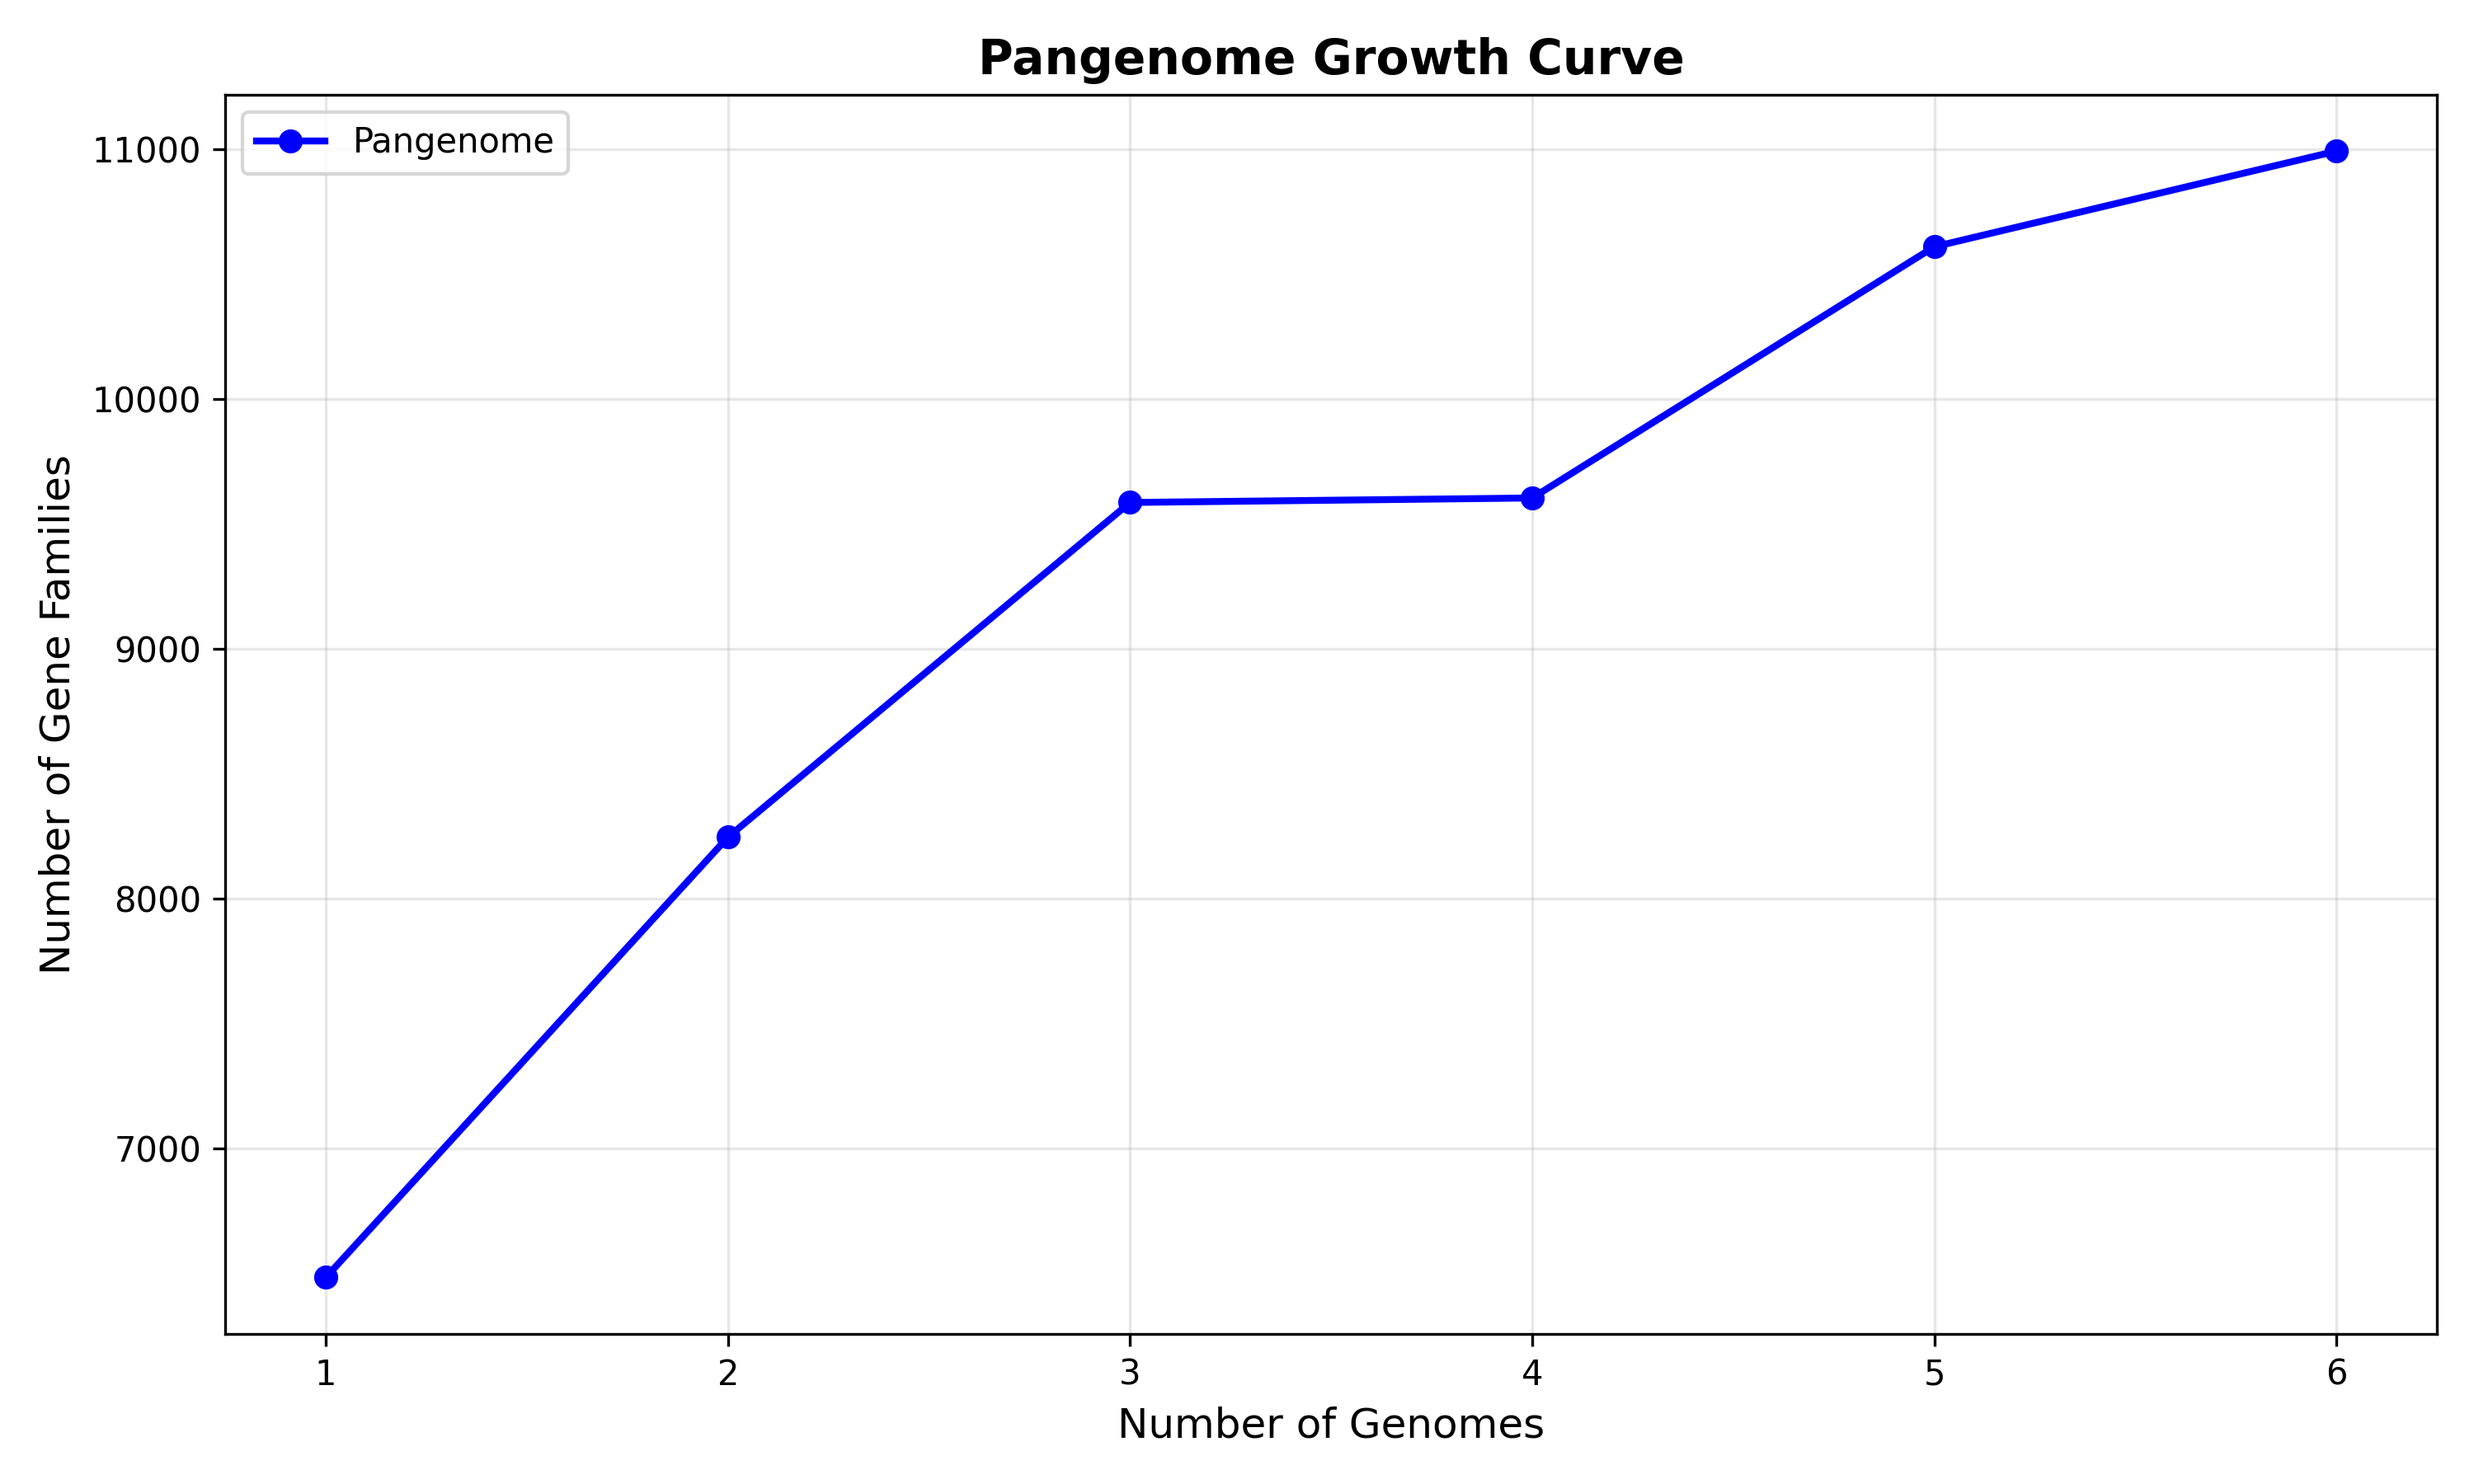
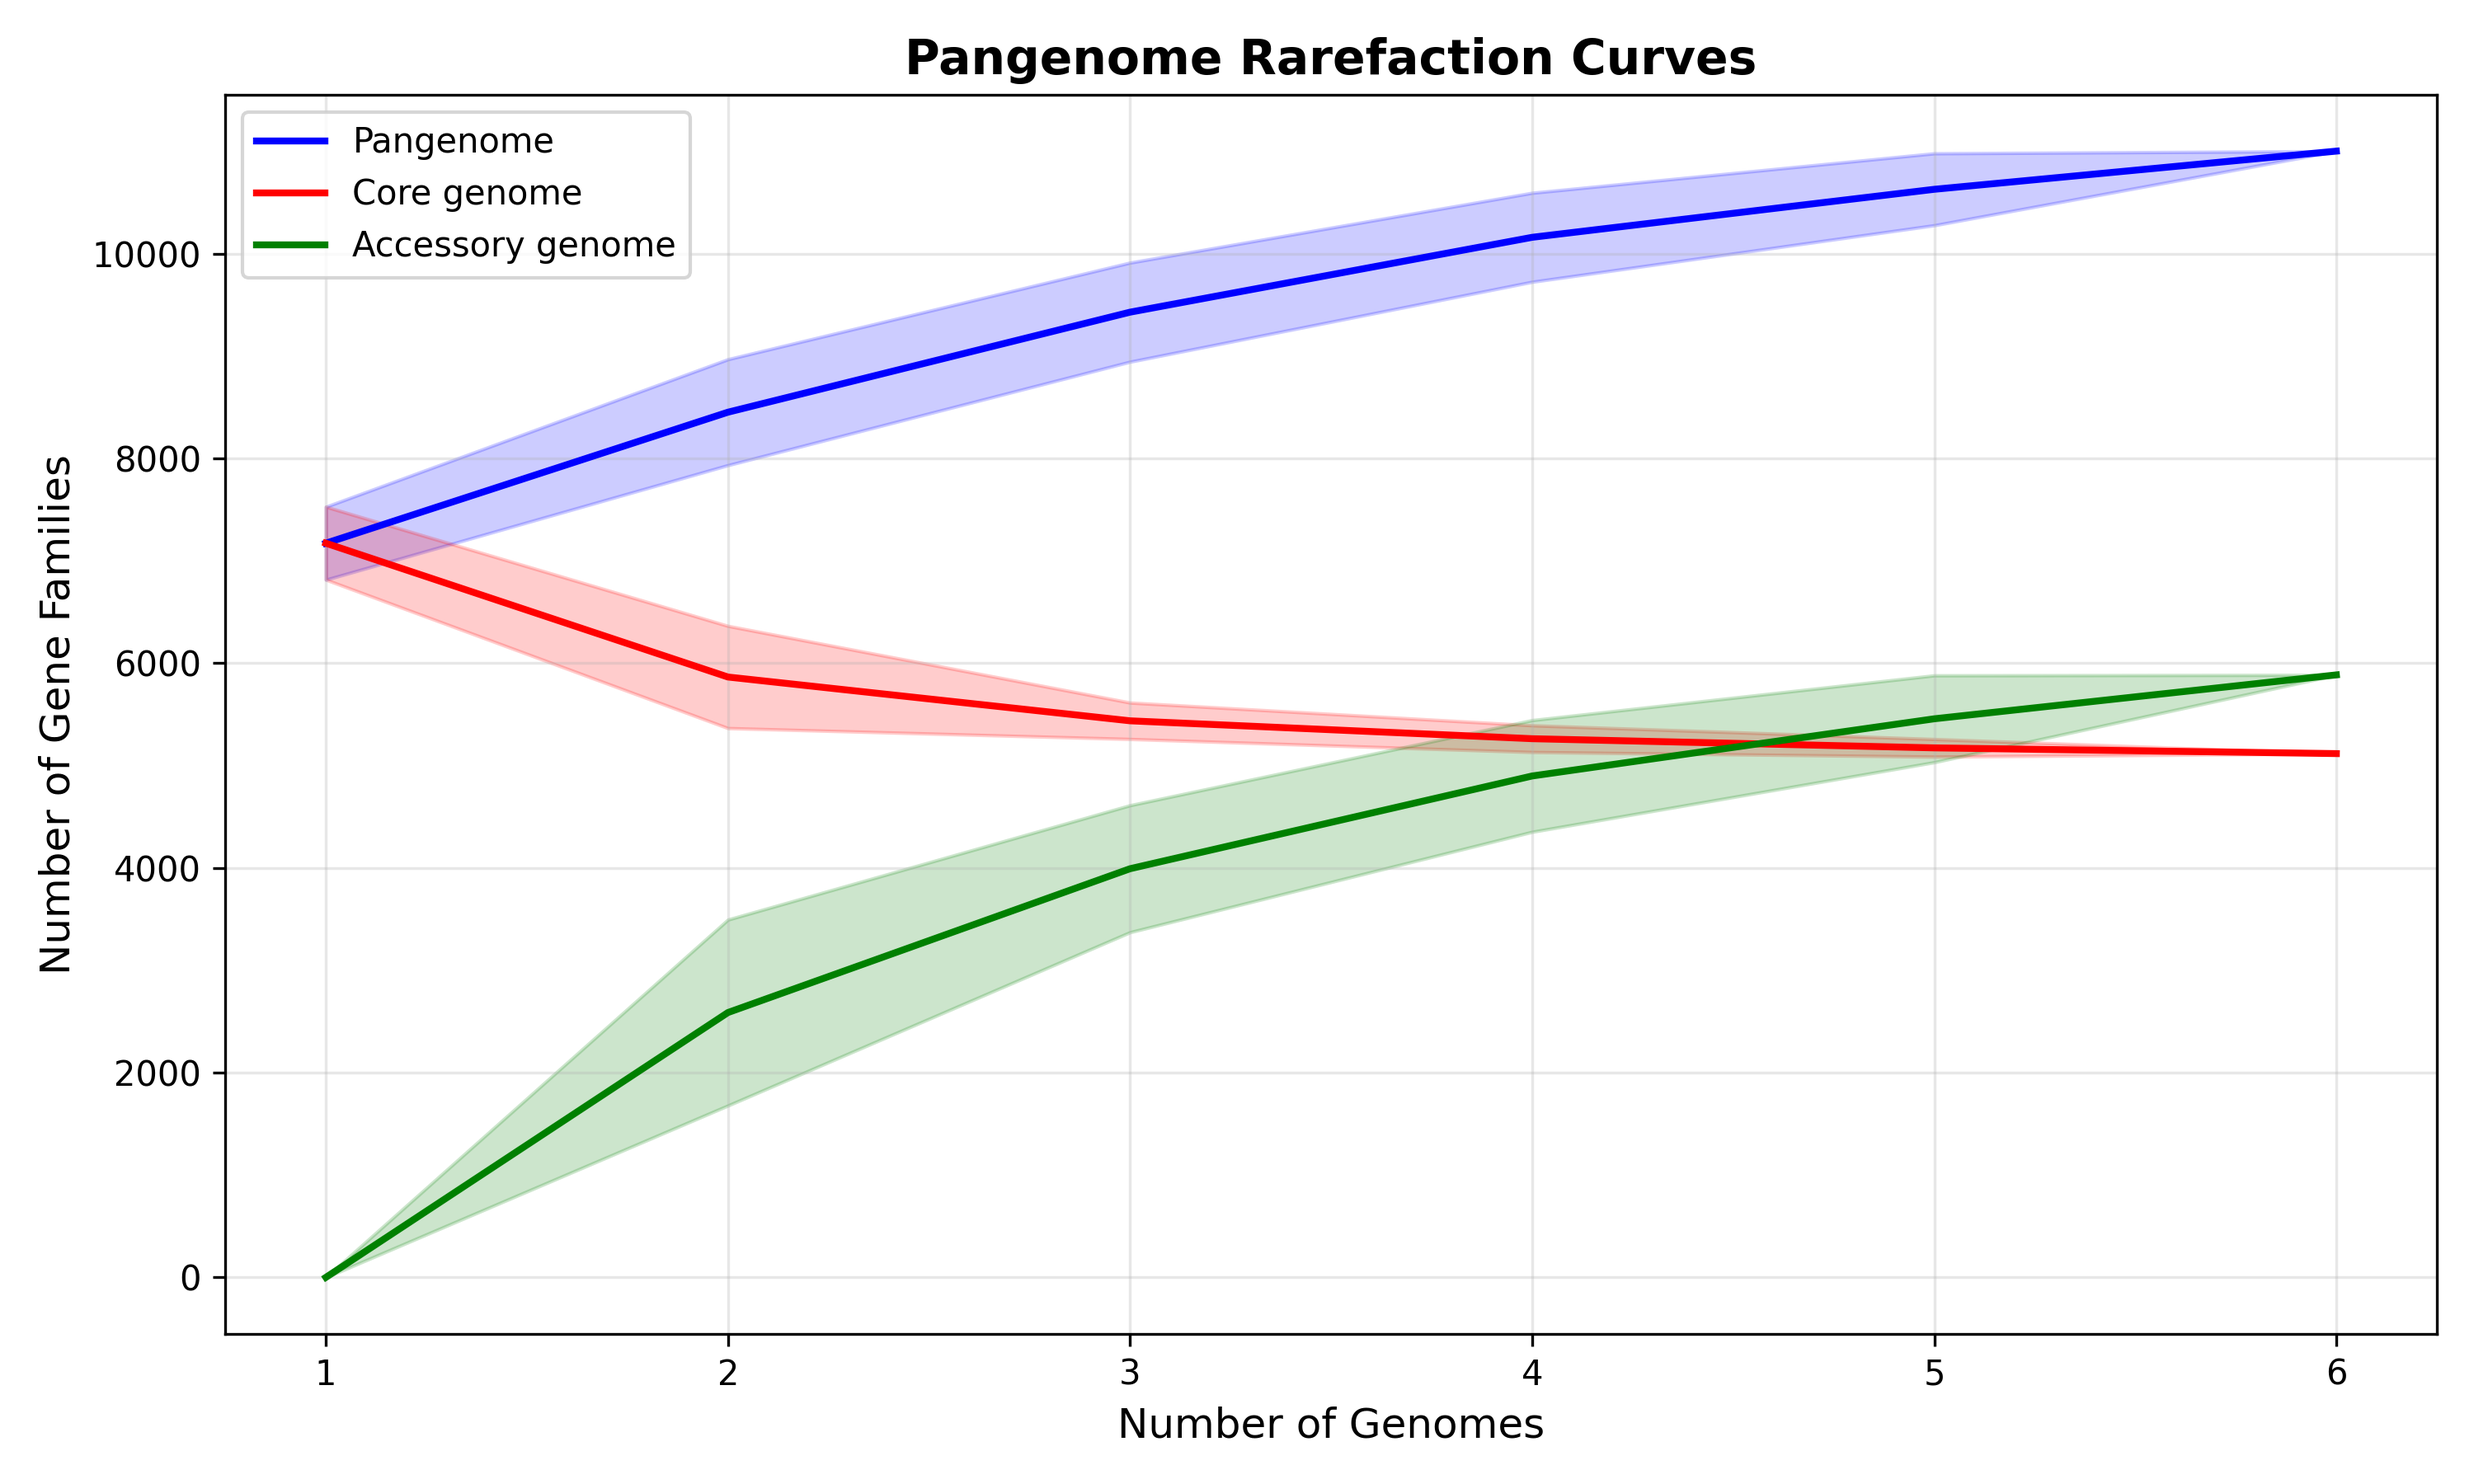
Add resampling uncertainty bands to rarefaction curves
Enhanced rarefaction curve visualization to show uncertainty from
100-iteration resampling analysis:

1. Modified _create_rarefaction_plot() to add shaded ±1 std bands
   - Blue band: Pangenome growth uncertainty
   - Red band: Core genome decay uncertainty
   - Green band: Accessory genome uncertainty
   - Semi-transparent (alpha=0.2) for clarity

2. Regenerated rarefaction plot with improved visualization
   - Shows both pangenome growth AND core genome decay
   - Demonstrates proper rarefaction methodology
   - More informative and professional appearance

3. Updated README figure caption to explain:
   - 100-iteration resampling methodology
   - Meaning of each colored line and band
   - Statistical interpretation of shaded regions

The uncertainty bands provide valuable insight into the reliability
of pangenome size estimates at each genome count.

diff --git a/pangenomeplus/pangenome_analysis.py b/pangenomeplus/pangenome_analysis.py
@@ -40,26 +40,50 @@ def _create_rarefaction_plot(
 
     fig, ax = plt.subplots(figsize=VizParams.DEFAULT_FIGSIZE)
 
-    # Plot pangenome curve
+    # Plot pangenome curve with uncertainty band
     if "pangenome" in rarefaction_data and rarefaction_data["pangenome"]:
         data = rarefaction_data["pangenome"]
         x = [row[0] for row in data]  # genome_count
         y = [row[1] for row in data]  # mean
+        std = [row[2] for row in data]  # std
         ax.plot(x, y, "b-", linewidth=2, label="Pangenome")
+        ax.fill_between(
+            x,
+            [m - s for m, s in zip(y, std)],
+            [m + s for m, s in zip(y, std)],
+            alpha=0.2,
+            color="blue",
+        )
 
-    # Plot core genome curve
+    # Plot core genome curve with uncertainty band
     if "core" in rarefaction_data and rarefaction_data["core"]:
         data = rarefaction_data["core"]
         x = [row[0] for row in data]  # genome_count
         y = [row[1] for row in data]  # mean
+        std = [row[2] for row in data]  # std
         ax.plot(x, y, "r-", linewidth=2, label="Core genome")
+        ax.fill_between(
+            x,
+            [m - s for m, s in zip(y, std)],
+            [m + s for m, s in zip(y, std)],
+            alpha=0.2,
+            color="red",
+        )
 
-    # Plot accessory genome curve
+    # Plot accessory genome curve with uncertainty band
     if "accessory" in rarefaction_data and rarefaction_data["accessory"]:
         data = rarefaction_data["accessory"]
         x = [row[0] for row in data]  # genome_count
         y = [row[1] for row in data]  # mean
+        std = [row[2] for row in data]  # std
         ax.plot(x, y, "g-", linewidth=2, label="Accessory genome")
+        ax.fill_between(
+            x,
+            [m - s for m, s in zip(y, std)],
+            [m + s for m, s in zip(y, std)],
+            alpha=0.2,
+            color="green",
+        )
 
     ax.set_xlabel("Number of Genomes", fontsize=12)
     ax.set_ylabel("Number of Gene Families", fontsize=12)

diff --git a/README.md b/README.md
@@ -542,7 +542,7 @@ Analysis of 6 *E. coli* genomes produced:
 **Pangenome type**: OPEN (growth rate: 780 families/genome)
 
 ![Rarefaction Curves](images/rarefaction_curves.png)
-*Figure 1: Pangenome growth curve showing family accumulation across 6 E. coli genomes.*
+*Figure 1: Pangenome rarefaction curves with 100-iteration resampling. Blue: total pangenome growth, Red: core genome decay, Green: accessory genome growth. Shaded regions show ±1 standard deviation from resampling uncertainty.*
 
 ![Feature Type Distribution](images/feature_type_distribution.png)
 *Figure 2: Distribution of gene families by feature type (proteins, intergenic regions, tRNAs, rRNAs).*
